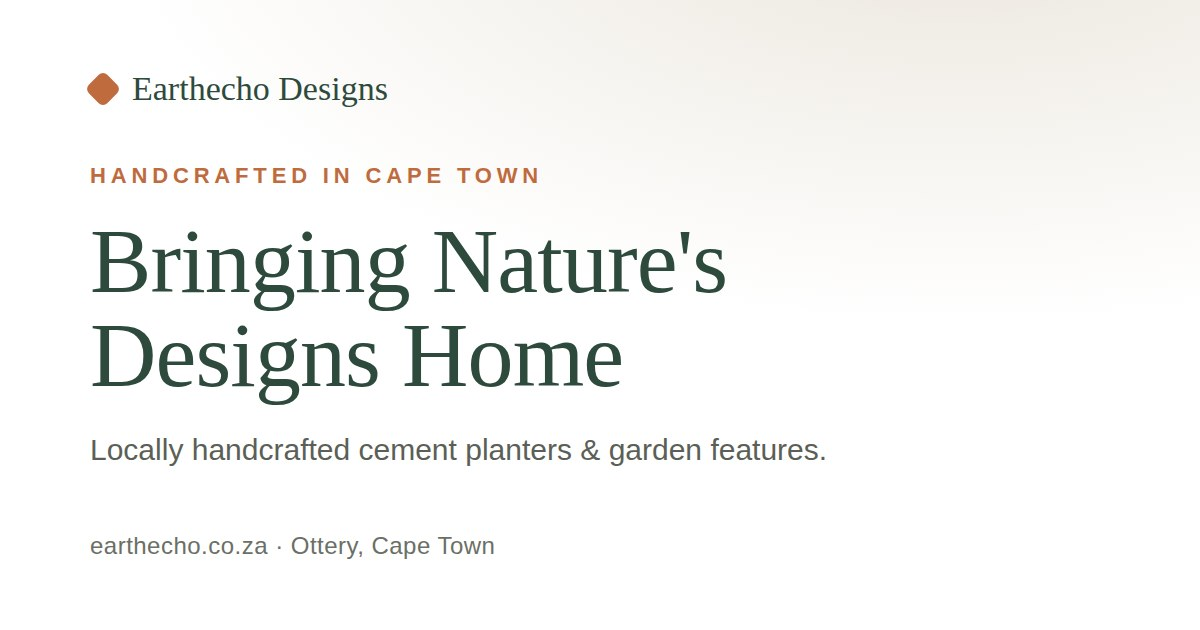
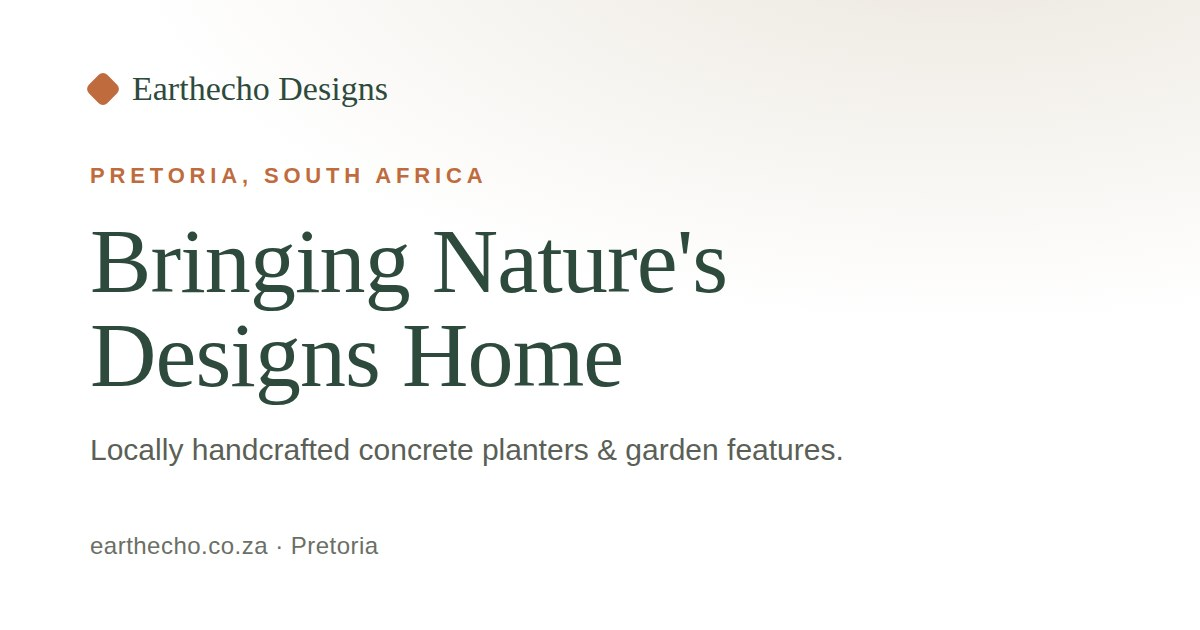
Content & nav refinements: full name, Range nav, Home link, Pretoria, concrete
Per owner feedback (design unchanged):
1. Header shows full name "Earthecho Designs"
2. Nav "Shop" -> "Range" (route unchanged); shop heading/title -> "Our range"
3. Added "Home" nav link; removed the "Handcrafted in Cape Town" hero eyebrow
4. Updated hero framing copy (concrete; "your indoor and outdoor spaces")
5. Bestseller flags set to SM3, SM6, SM8, Island Face (SM5)
6. Removed the Featured section; moved "View all 22 pieces" below Shop by category
7. Cape Town/Ottery -> Pretoria everywhere (config, pages, schema, map, delivery
   labels, OG image); exact street address TBC
8. Added Instagram (footer, contact, LocalBusiness sameAs)
9. Our Craft: heading -> "One piece at a time for you"; new concrete-mix copy
10. Removed company registration number from the footer
11. Copyright trimmed to "(c) YEAR Earthecho Designs. Prices in ZAR; no VAT charged."
12. Privacy/Terms email line: added space, removed trailing full stop

Also standardised "cement" -> "concrete" across all copy for consistency, and
renamed the local delivery fee config (capeTownFee -> localFee).

Verified: build clean (31 pages), category filter still 100% accurate,
cart -> checkout works ("Pretoria local delivery · R150", total correct,
confirmation shows), desktop + mobile render well, zero page errors.

Claude-Session: https://claude.ai/code/session_01BMtkJvP7q4yyZfFD5VwroB

Changed region(s): [[0.3083, 0.6937, 0.7092, 0.754], [0.0617, 0.2413, 0.4625, 0.3016], [0.2467, 0.8444, 0.4317, 0.9048]]

diff --git a/src/config.ts b/src/config.ts
@@ -10,14 +10,17 @@ export const business = {
   name: 'Earthecho Designs',
   tagline: "Bringing Nature's Designs Home",
   framing:
-    'Locally handcrafted cement garden features designed to bring natural elegance and timeless style to any indoor or outdoor space.',
+    'Locally handcrafted concrete garden features designed to bring natural elegance and timeless style to your indoor and outdoor spaces.',
   registration: '2025/496004/07',
-  location: 'Ottery, Cape Town',
+  // Exact street address TBC.
+  location: 'Pretoria',
   email: 'Earthechodesigns@outlook.com',
   // Google Business Profile (from the shared Google listing).
   googleBusinessUrl: 'https://share.google/m8AJS7MYNogJLj8gu',
   // Facebook page.
   facebookUrl: 'https://www.facebook.com/share/1JCQwU1tSC/',
+  // Instagram page.
+  instagramUrl: 'https://www.instagram.com/earthechodesigns',
   // Opening hours — shown in LocalBusiness schema. Update if these change.
   hours: 'Mon–Sat 09:00–17:00',
 };
@@ -34,9 +37,9 @@ export const contacts = {
 };
 
 export const delivery = {
-  // Cape Town local delivery flat fee (ZAR).
-  capeTownFee: 150,
-  collectionSuburb: 'Ottery, Cape Town',
+  // Local (Pretoria) delivery flat fee (ZAR).
+  localFee: 150,
+  collectionSuburb: 'Pretoria',
 };
 
 export type DeliveryOptionId = 'collection' | 'cape-town' | 'national';
@@ -61,16 +64,16 @@ export const deliveryOptions: DeliveryOption[] = [
   },
   {
     id: 'cape-town',
-    label: 'Cape Town local delivery',
-    fee: delivery.capeTownFee,
-    note: 'Flat fee for delivery within the Cape Town area.',
+    label: 'Pretoria local delivery',
+    fee: delivery.localFee,
+    note: 'Flat fee for delivery within the Pretoria area.',
     needsAddress: true,
   },
   {
     id: 'national',
     label: 'National delivery — quote on request',
     fee: null,
-    note: 'Cement is heavy and fragile, so we get you a courier quote before you pay. We contact you to confirm.',
+    note: 'Concrete is heavy and fragile, so we get you a courier quote before you pay. We contact you to confirm.',
     needsAddress: true,
   },
 ];

diff --git a/src/content/products/sm8.md b/src/content/products/sm8.md
@@ -4,10 +4,10 @@ name: "Window Box Planter"
 category: "Planters"
 dimensions: "86 × 32 × 26 cm"
 price: 499
-description: "A long trough planter detailed with flower and butterfly reliefs — perfect for herbs, succulents or trailing greenery along a wall or balcony. Handcrafted in durable cement for indoor or outdoor use, with drainage holes included."
+description: "A long trough planter detailed with flower and butterfly reliefs — perfect for herbs, succulents or trailing greenery along a wall or balcony. Handcrafted in durable concrete for indoor or outdoor use, with drainage holes included."
 image: "/src/assets/products/sm8.png"
 altImages: []
 inStock: true
-featured: false
+featured: true
 order: 8
 ---

diff --git a/src/content/products/sm1.md b/src/content/products/sm1.md
@@ -4,10 +4,10 @@ name: "Figure Relief Statement Planter"
 category: "Statement"
 dimensions: "55 × 70 cm"
 price: 749
-description: "A commanding tall planter wrapped in hand-sculpted running figures — a true statement piece for an entrance or patio. Cast by hand in durable cement and finished for indoor or outdoor use, with drainage holes included."
+description: "A commanding tall planter wrapped in hand-sculpted running figures — a true statement piece for an entrance or patio. Cast by hand in durable concrete and finished for indoor or outdoor use, with drainage holes included."
 image: "/src/assets/products/sm1.png"
 altImages: []
 inStock: true
-featured: true
+featured: false
 order: 1
 ---

diff --git a/src/content/products/sm14.md b/src/content/products/sm14.md
@@ -4,7 +4,7 @@ name: "Urn Planter"
 category: "Planters"
 dimensions: "40 × 50 cm"
 price: 399
-description: "A classic footed urn planter with a fluted base and softly weathered finish — timeless garden elegance for an entrance, patio or indoor corner. Hand-cast in durable cement for indoor or outdoor use, with drainage holes included."
+description: "A classic footed urn planter with a fluted base and softly weathered finish — timeless garden elegance for an entrance, patio or indoor corner. Hand-cast in durable concrete for indoor or outdoor use, with drainage holes included."
 image: "/src/assets/products/sm14.png"
 altImages: []
 inStock: true

diff --git a/src/content/products/sm18.md b/src/content/products/sm18.md
@@ -4,7 +4,7 @@ name: "Oval Basket Planter"
 category: "Bowls & Trays"
 dimensions: "40 × 20 cm"
 price: 279
-description: "A wide, low oval planter with a beautifully woven basket texture — lovely for a lush low arrangement or a table centrepiece. Handcrafted in weather-resistant cement for indoor or outdoor use, with drainage holes included."
+description: "A wide, low oval planter with a beautifully woven basket texture — lovely for a lush low arrangement or a table centrepiece. Handcrafted in weather-resistant concrete for indoor or outdoor use, with drainage holes included."
 image: "/src/assets/products/sm18.png"
 altImages: []
 inStock: true

diff --git a/src/content/products/sm15.md b/src/content/products/sm15.md
@@ -4,7 +4,7 @@ name: "Tall Square Planter"
 category: "Statement"
 dimensions: "40 × 58 cm"
 price: 549
-description: "A tall, tapered square planter with a richly textured, stone-like finish and a confident architectural presence for entrances and corners. Hand-cast in durable cement for indoor or outdoor use, with drainage holes included."
+description: "A tall, tapered square planter with a richly textured, stone-like finish and a confident architectural presence for entrances and corners. Hand-cast in durable concrete for indoor or outdoor use, with drainage holes included."
 image: "/src/assets/products/sm15.png"
 altImages: []
 inStock: true

diff --git a/src/content/products/sm16.md b/src/content/products/sm16.md
@@ -4,7 +4,7 @@ name: "Figure Relief Bowl"
 category: "Bowls & Trays"
 dimensions: "30 × 26 cm"
 price: 219
-description: "A low, rounded bowl planter wrapped in hand-sculpted running figures — a playful companion to our Figure Relief Statement Planter. Cast by hand in durable cement for indoor or outdoor use, with drainage holes included."
+description: "A low, rounded bowl planter wrapped in hand-sculpted running figures — a playful companion to our Figure Relief Statement Planter. Cast by hand in durable concrete for indoor or outdoor use, with drainage holes included."
 image: "/src/assets/products/sm16.png"
 altImages: []
 inStock: true

diff --git a/src/content/products/sm7.md b/src/content/products/sm7.md
@@ -4,7 +4,7 @@ name: "Weathered Statement Planter"
 category: "Statement"
 dimensions: "55 × 70 cm"
 price: 749
-description: "A large tapered statement planter with a beautifully weathered, whitewashed finish that lets the plant take centre stage. Hand-cast in durable cement for indoor or outdoor use, with drainage holes included."
+description: "A large tapered statement planter with a beautifully weathered, whitewashed finish that lets the plant take centre stage. Hand-cast in durable concrete for indoor or outdoor use, with drainage holes included."
 image: "/src/assets/products/sm7.png"
 altImages: []
 inStock: true

diff --git a/src/content/products/sm3.md b/src/content/products/sm3.md
@@ -4,7 +4,7 @@ name: "Butterfly Medium Planter"
 category: "Planters"
 dimensions: "37 × 33 cm"
 price: 399
-description: "A decorative medium planter with a raised butterfly motif and a beautifully textured surface. Cast by hand in durable cement for indoor or outdoor use, with drainage holes included. No two are exactly alike."
+description: "A decorative medium planter with a raised butterfly motif and a beautifully textured surface. Cast by hand in durable concrete for indoor or outdoor use, with drainage holes included. No two are exactly alike."
 image: "/src/assets/products/sm3.png"
 altImages: []
 inStock: true

diff --git a/src/content/products/sm17.md b/src/content/products/sm17.md
@@ -4,7 +4,7 @@ name: "Woven Basket Planter"
 category: "Planters"
 dimensions: "30 × 30 cm"
 price: 299
-description: "A tapered planter cast to look like a hand-woven basket and finished in soft whitewashed cement — a warm, textural piece for indoors or out. Handcrafted in durable cement, with drainage holes included."
+description: "A tapered planter cast to look like a hand-woven basket and finished in soft whitewashed concrete — a warm, textural piece for indoors or out. Handcrafted in durable concrete, with drainage holes included."
 image: "/src/assets/products/sm17.png"
 altImages: []
 inStock: true

diff --git a/src/content/products/sm12.md b/src/content/products/sm12.md
@@ -4,7 +4,7 @@ name: "Oval Planter"
 category: "Planters"
 dimensions: "30 × 30 cm"
 price: 299
-description: "A rounded, full-bodied planter with a smooth whitewashed finish — lovely for a favourite indoor plant or a bright spot on the patio. Handcrafted in weather-resistant cement, with drainage holes included."
+description: "A rounded, full-bodied planter with a smooth whitewashed finish — lovely for a favourite indoor plant or a bright spot on the patio. Handcrafted in weather-resistant concrete, with drainage holes included."
 image: "/src/assets/products/sm12.png"
 altImages: []
 inStock: true

diff --git a/src/content/products/cok3.md b/src/content/products/cok3.md
@@ -4,7 +4,7 @@ name: "Round Bowl Planter"
 category: "Bowls & Trays"
 dimensions: "28 × 20 cm"
 price: 119
-description: "A rounded bell-shaped bowl planter with a wide rim and handcrafted touch for a shelf, table or windowsill. Cast by hand in durable cement for indoor or outdoor use, with a drainage hole included."
+description: "A rounded bell-shaped bowl planter with a wide rim and handcrafted touch for a shelf, table or windowsill. Cast by hand in durable concrete for indoor or outdoor use, with a drainage hole included."
 image: "/src/assets/products/cok3.png"
 altImages: []
 inStock: true
